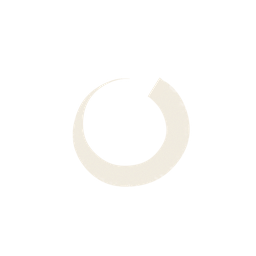
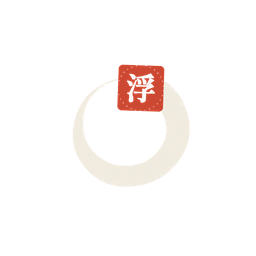
Splash: the mark carries its seal, and beat one really is beat one
Three things the first capture showed that the code did not:

* ukiyo-mark*.png were drawn from the bare ensō, so every place that used
  the asset on its own — the splash's identity block among them — showed a
  letter C where the seal should be. The published mark assets now include
  the hanko; only the 32 px one stays bare, where the glyph is mud anyway.
* --splash-shots called skipIntro(), which jumps the crossfade to its end,
  so splash_mark.png was a second copy of the artwork. The capture now lets
  the intro run for 700 ms (the mark's hold is 950 ms) and waits out the
  crossfade before the second grab.
* The version label sat on the sun disc in a grey that vanished into the
  orange. It is now at the foot of the card, where a print puts its
  colophon, and reads against the cloud mass.

Changed region(s): [[0.4375, 0.25, 0.6562, 0.4375]]

diff --git a/editor/src/splash_screen.cpp b/editor/src/splash_screen.cpp
@@ -305,7 +305,9 @@ void SplashScreen::paintArtwork(QPainter& painter, qreal s) {
     painter.drawText(QPointF(wordX, wordY), QStringLiteral("UKIYO"));
 
     // The mark sits on the wordmark's cap line, at the left of it: the seal is the only red here, as in the PNG.
-    const QPixmap mark = QPixmap(QStringLiteral(UKIYO_ROOT) + QStringLiteral("/editor/res/brand/ukiyo-mark.png"))
+    // Loaded at 256 and drawn at 128: the seal's glyph is only ~5 % of the mark's width, so it needs the source pixels
+    // to survive the downscale.
+    const QPixmap mark = QPixmap(QStringLiteral(UKIYO_ROOT) + QStringLiteral("/editor/res/brand/ukiyo-mark-256.png"))
                              .scaled(int(128.0 * s), int(128.0 * s), Qt::KeepAspectRatio, Qt::SmoothTransformation);
     if (!mark.isNull())
         painter.drawPixmap(QPointF(kMargin * s, wordY - 92.0 * s), mark);
@@ -326,13 +328,14 @@ void SplashScreen::paintArtwork(QPainter& painter, qreal s) {
     painter.setPen(QColor(kMuted.red(), kMuted.green(), kMuted.blue(), 210));
     painter.drawText(QPointF(wordX + 2.0 * s, wordY + 54.0 * s), QStringLiteral("浮世エンジン"));
 
-    // Version, top right, over the sky rather than the island.
+    // Version, bottom right, on the dark cloud mass. It was in the top right corner, where it sat on the sun disc in a
+    // grey that disappeared into the orange; the foot of the card is where a print puts its colophon anyway.
     const QString version = QStringLiteral("v0.1");
     const QFont versionFont = sized(font(), 8.0 * s, QFont::Normal, 0.8 * s);
     const qreal versionWidth = QFontMetricsF(versionFont).horizontalAdvance(version);
     painter.setFont(versionFont);
-    painter.setPen(QColor(kDim.red(), kDim.green(), kDim.blue(), 220));
-    painter.drawText(QPointF(width() - kMargin * s - versionWidth, 46.0 * s), version);
+    painter.setPen(QColor(kMuted.red(), kMuted.green(), kMuted.blue(), 150));
+    painter.drawText(QPointF(width() - kMargin * s - versionWidth, 511.0 * s), version);
 
     // ---- the status block, low in the left column
     const qreal typeWidth = std::min(430.0 * s, width() - kMargin * 2.0 * s);

diff --git a/editor/src/hub/hub_window.cpp b/editor/src/hub/hub_window.cpp
@@ -521,12 +521,12 @@ int captureSplash(const QString& dir) {
     splash.setCaption(QStringLiteral("~/Projects/UkiyoEngine"));
     splash.resize(960, 540);
 
-    // Beat 1. The mark has a settle animation; let it run so the grab is the design, not a half-faded frame.
-    splash.skipIntro();
+    // Beat 1. The intro runs rather than being skipped: skipIntro() sends the screen straight to the artwork, so the
+    // grab has to wait out the mark's own hold (kMarkHoldMs) to be the design the launcher actually opens on.
     splash.setStage(0.0f, QString());
     QElapsedTimer beat;
     beat.start();
-    while (beat.elapsed() < 260) QCoreApplication::processEvents(QEventLoop::AllEvents, 16);
+    while (beat.elapsed() < 700) QCoreApplication::processEvents(QEventLoop::AllEvents, 16);
     if (!splash.grab().save(dir + QStringLiteral("/splash_mark.png"))) {
         std::fprintf(stderr, "could not write splash_mark.png\n");
         return 1;
@@ -535,7 +535,8 @@ int captureSplash(const QString& dir) {
     // Beat 2: the artwork, a heading, and the bar part-way through the work the splash is for.
     splash.setStage(0.36f, QStringLiteral("Loading renderer and assets"));
     beat.restart();
-    while (beat.elapsed() < 900) QCoreApplication::processEvents(QEventLoop::AllEvents, 16);
+    // Long enough for the crossfade to finish, so the grab is the second beat and not the middle of the transition.
+    while (beat.elapsed() < 1100) QCoreApplication::processEvents(QEventLoop::AllEvents, 16);
     if (!splash.grab().save(dir + QStringLiteral("/splash.png"))) {
         std::fprintf(stderr, "could not write splash.png\n");
         return 1;

diff --git a/tools/brand.py b/tools/brand.py
@@ -330,9 +330,11 @@ def main():
     os.makedirs(RES_DIR, exist_ok=True)
     os.makedirs(DOC_DIR, exist_ok=True)
 
-    mark(512).save(os.path.join(RES_DIR, "ukiyo-mark.png"))
+    # The seal belongs to the mark: drawing the ring alone and adding the stamp later produced assets that read as a
+    # letter C wherever they were used on their own. Only the 32 px mark stays bare, where the glyph is mud anyway.
+    mark_with_seal(512).save(os.path.join(RES_DIR, "ukiyo-mark.png"))
     for s in (256, 128):
-        mark(s).save(os.path.join(RES_DIR, f"ukiyo-mark-{s}.png"))
+        mark_with_seal(s).save(os.path.join(RES_DIR, f"ukiyo-mark-{s}.png"))
     # At 64 px the character inside the seal is mud; the block still reads as a dot of pigment.
     hanko(64).save(os.path.join(RES_DIR, "ukiyo-mark-64.png"))
     mark(32).save(os.path.join(RES_DIR, "ukiyo-mark-32.png"))
